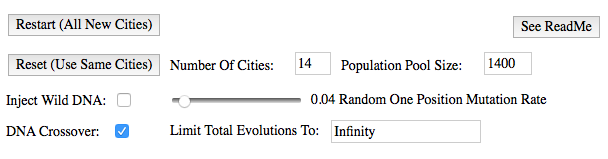
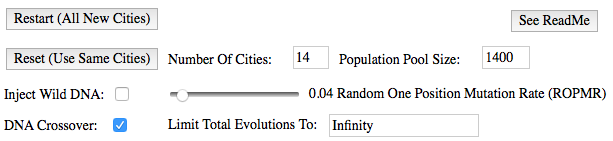
WillThisEverBeDone
Something was missing

diff --git a/sketch.js b/sketch.js
@@ -32,6 +32,7 @@ var bep = 0; // last change % best ever
 var bet = 0; // time of last change best ever
 var lcp = 0; // last change % scrub
 var lct = 0; // time of last change scrub
+var strROPMR = " Random One Position Mutation Rate (ROPMR)";
 
 // Population of possible routes
 var population = [];
@@ -254,7 +255,7 @@ function setCrossOverFlag(){
 function adjMurate(){
   murate  = sliderMurate.value()/100;
   // update the DOMs
-  slMuratetxt.elt.innerText = murate + " Random One Position Mutation Rate";
+  slMuratetxt.elt.innerText = murate + strROPMR;
 }
 
 function getPopInput(){
@@ -346,7 +347,7 @@ function DOMinator(){
 
   sliderMurate = createSlider(0, 100, murate*100);
   sliderMurate.position(inpnctxt.position().x  ,pwhtxt.position().y );
-  var muratetxt = murate + " Random One Position Mutation Rate (ROPMR)";
+  var muratetxt = murate + strROPMR;
   slMuratetxt = createP(muratetxt);
   slMuratetxt.position(sliderMurate.position().x +  sliderMurate.width + 10 ,pwhtxt.position().y - pwhtxt.height*.9);
   //sliderMurate.changed(adjMurate); // this event only fires after the slider is changed.
